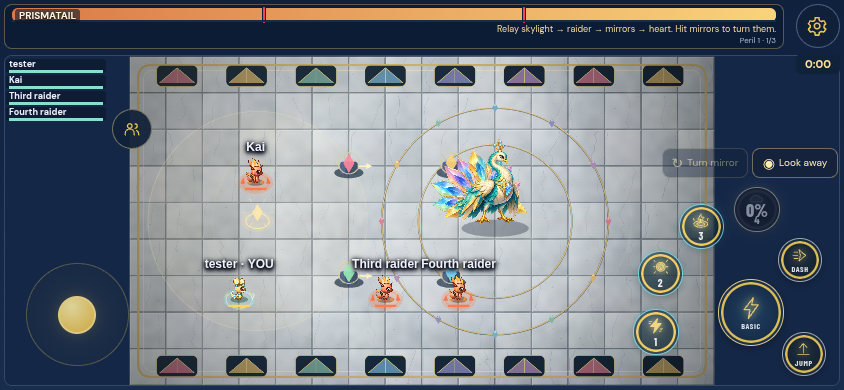
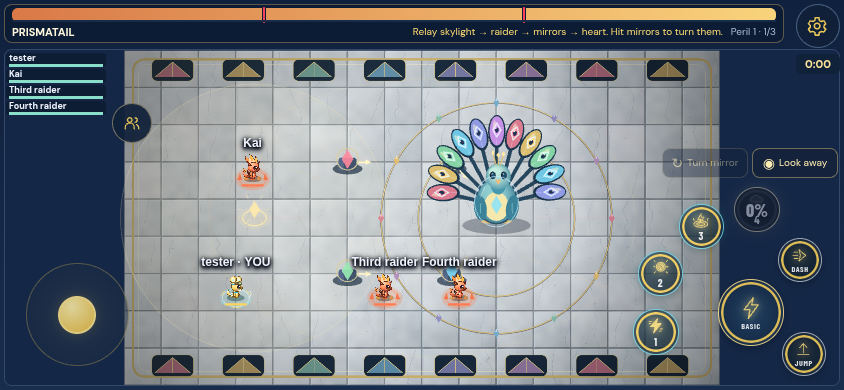
Align boss names, status and Peril below health bars across screen sizes

Changed region(s): [[0.0, 0.0, 0.955, 0.9846]]

diff --git a/tests/visual/raid-layout.spec.ts b/tests/visual/raid-layout.spec.ts
@@ -10,6 +10,7 @@ import {
 
 for (const size of [
   { width: 1440, height: 900 },
+  { width: 1280, height: 1024 },
   { width: 1024, height: 500 },
   { width: 844, height: 390 },
   { width: 844, height: 280 },
@@ -17,7 +18,7 @@ for (const size of [
   test(`raid choices are centred and the mobile court clears the HUD at ${size.width}x${size.height}`, async ({
     browser,
   }, info) => {
-    const mobile = size.width !== 1440;
+    const mobile = size.width < 1200;
     const context = await browser.newContext({
       viewport: size,
       isMobile: mobile,
@@ -90,6 +91,15 @@ for (const size of [
           }
           w.__push();
         }, boss);
+        if (!mobile) {
+          const name = await box(page, ".raid-boss-heading > b"),
+            cue = await box(page, ".raid-callout"),
+            meta = await box(page, ".raid-boss-heading > span");
+          expect(Math.abs(name.y - cue.y)).toBeLessThanOrEqual(1);
+          expect(Math.abs(meta.y - cue.y)).toBeLessThanOrEqual(1);
+          expect(name.x + name.width).toBeLessThanOrEqual(cue.x);
+          expect(cue.x + cue.width).toBeLessThanOrEqual(meta.x);
+        }
         if (mobile) {
           const compactHud = await box(page, "#raid-hud");
           expect(compactHud.height).toBeLessThanOrEqual(
@@ -140,18 +150,15 @@ for (const size of [
             ),
             name = await box(
               page,
-              boss === "storm-twins"
-                ? ".raid-twin-bar b"
-                : ".raid-boss-heading > b",
+              ".raid-boss-heading > b",
             ),
             cue = await box(page, ".raid-callout"),
             meta = await box(page, ".raid-boss-heading > span");
-          expect(name.y).toBeGreaterThanOrEqual(health.y - 1);
-          expect(name.y + name.height).toBeLessThanOrEqual(
-            health.y + health.height + 1,
-          );
-          expect(cue.y).toBeGreaterThanOrEqual(health.y + health.height);
-          expect(meta.y).toBeGreaterThanOrEqual(cue.y + cue.height);
+          expect(name.y).toBeGreaterThanOrEqual(health.y + health.height);
+          expect(Math.abs(name.y - cue.y)).toBeLessThanOrEqual(1);
+          expect(Math.abs(meta.y - cue.y)).toBeLessThanOrEqual(1);
+          expect(name.x + name.width).toBeLessThanOrEqual(cue.x);
+          expect(cue.x + cue.width).toBeLessThanOrEqual(meta.x);
           // All four arena corners remain visible, even for the three bosses
           // that previously used the tight fighter-follow camera.
           await expect

diff --git a/apps/client/src/style.css b/apps/client/src/style.css
@@ -23297,3 +23297,57 @@ button.raid-roster-card.is-selected {
     font-size: 14px;
   }
 }
+
+/* Keep the name, status and Peril in distinct cells on the same baseline. */
+body.battle-active.battle-raid #raid-hud .raid-callout,
+body.battle-active:not(.touch-mode).battle-raid #raid-hud .raid-callout,
+body.battle-active:not(.touch-mode) #battle.desktop-hud-outside #raid-hud .raid-callout {
+  grid-area: cue;
+  position: static;
+  left: auto;
+  justify-self: stretch;
+  align-self: center;
+  width: auto;
+  min-width: 0;
+  text-align: right;
+}
+body.battle-active.battle-raid #raid-hud .raid-boss-heading > b,
+body.battle-active.battle-raid #raid-hud:has(.raid-twin-health) .raid-boss-heading > b {
+  display: block;
+  align-self: center;
+}
+body.battle-active:not(.touch-mode).battle-raid #raid-hud,
+body.battle-active:not(.touch-mode) #battle.desktop-hud-outside #raid-hud {
+  grid-template-areas: "health health health party" "name cue peril party";
+  align-items: center;
+}
+body.battle-active:not(.touch-mode).battle-raid #raid-hud:has(.raid-twin-health) {
+  grid-template-areas: "health health health party" "name cue peril party";
+}
+@media (orientation: landscape) {
+  body.battle-active.touch-mode.battle-raid #raid-hud {
+    grid-template-areas: "health health health" "name cue peril";
+    grid-template-columns: minmax(0, 24%) minmax(0, 1fr) max-content;
+    align-items: center;
+  }
+  body.battle-active.touch-mode.battle-raid #raid-hud .raid-elapsed {
+    grid-area: auto;
+  }
+}
+
+body.battle-active:not(.touch-mode).battle-raid #raid-hud .raid-party-bars,
+body.battle-active:not(.touch-mode) #battle.desktop-hud-outside #raid-hud .raid-party-bars {
+  grid-area: party;
+}
+body.battle-active:not(.touch-mode).battle-raid #battle #raid-hud .raid-callout {
+  grid-column: 2;
+  grid-row: 2;
+  position: static;
+  left: auto;
+  width: auto;
+  justify-self: stretch;
+  text-align: right;
+}
+body.battle-active:not(.touch-mode).battle-raid #battle #raid-hud .raid-party-bars {
+  grid-area: party;
+}

diff --git a/docs/regular-raids.md b/docs/regular-raids.md
@@ -13,8 +13,9 @@ ordinary raid clear as Voltkit or Auralynx, retaining its tier, target, reward,
 progress and payout state. Six missions, five free changes and the all-six streak
 goal are unchanged. No earned progress or inventory is deleted.
 
-The boss HUD places the name inside the left of a thin HP/stagger strip. The
-short objective and Peril/phase metadata sit below, aligned to the right.
+On PC and mobile, the boss name sits below the HP strip on the left. The
+short objective and Peril/phase metadata share that same row, with the objective
+immediately left of Peril. Each has its own grid cell to avoid overlapping.
 Twins show two individual HP bars instead of a duplicate aggregate bar. Player
 names and HP stack in a small left column below the boss, including solo. Down,
 target and trap alerts stay attached to their player and do not resize the court.
